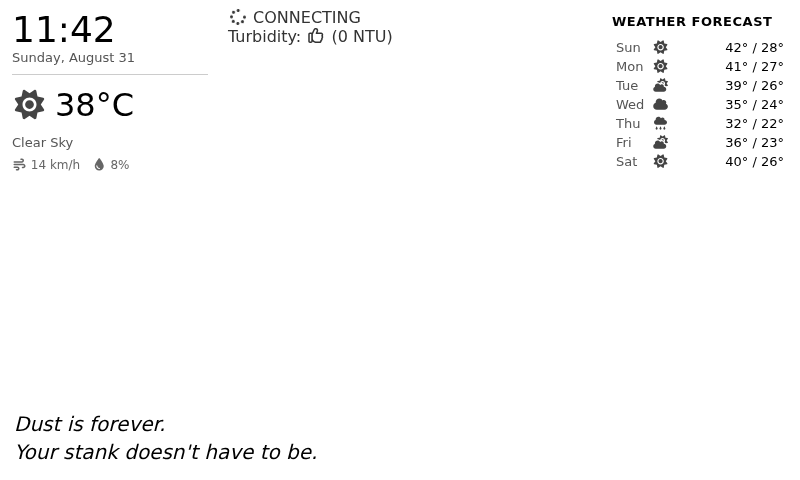
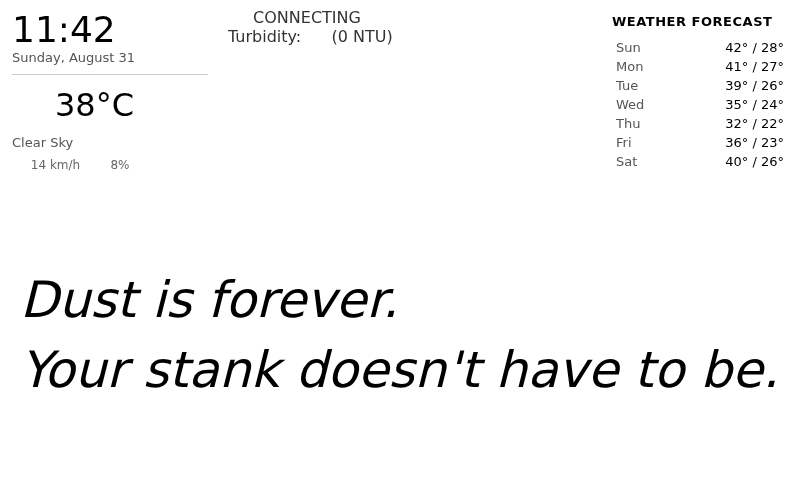
feat: dynamic compliment font fills bottom region with correct padding
- Expand bottom-left region to full width and give it a defined top
  boundary (245px) so the text area is well-clear of the flow diagram
- Binary-search largest font-size that fits within the padding-adjusted
  content box, so shorter quotes render large and all sides have even
  breathing room (20px padding)
- Regenerate all 7 full-display screenshots

diff --git a/MMM-Infinistream/test/take-screenshots-full.js b/MMM-Infinistream/test/take-screenshots-full.js
@@ -98,7 +98,7 @@ const LAYOUT_CSS = `
   .region.top.left    { top: 0;   left: 0;   width: 220px; padding: 12px; }
   .region.top.center  { top: 0;   left: 220px; right: 200px; padding: 8px; }
   .region.top.right   { top: 0;   right: 0;  width: 200px; padding: 12px; }
-  .region.bottom.left { bottom: 0; left: 0;  width: 380px; padding: 14px; }
+  .region.bottom.left { top: 245px; bottom: 0; left: 0; right: 0; padding: 20px; overflow: hidden; }
 
   /* Mock module chrome */
   .mock-module { font-size: 13px; line-height: 1.5; }
@@ -170,6 +170,25 @@ async function main() {
       document.getElementById("top-left").innerHTML   = leftHtml;
       document.getElementById("top-right").innerHTML  = rightHtml;
       document.getElementById("bottom-left").innerHTML = complimentHtml;
+
+      // Binary-search the largest font-size that keeps the compliment within
+      // its container, so shorter quotes render large and fill the space.
+      const container = document.getElementById("bottom-left");
+      const el = container.querySelector(".mock-compliment");
+      const cs = getComputedStyle(container);
+      const innerH = container.clientHeight - parseFloat(cs.paddingTop)  - parseFloat(cs.paddingBottom);
+      const innerW = container.clientWidth  - parseFloat(cs.paddingLeft) - parseFloat(cs.paddingRight);
+      let lo = 14, hi = 96;
+      while (lo < hi - 1) {
+        const mid = Math.floor((lo + hi) / 2);
+        el.style.fontSize = mid + "px";
+        if (el.scrollHeight <= innerH && el.scrollWidth <= innerW) {
+          lo = mid;
+        } else {
+          hi = mid;
+        }
+      }
+      el.style.fontSize = lo + "px";
     }, CURRENT_WEATHER_HTML, FORECAST_HTML, COMPLIMENT_HTML);
 
     for (const { label, mode, turbidity } of STATES) {
